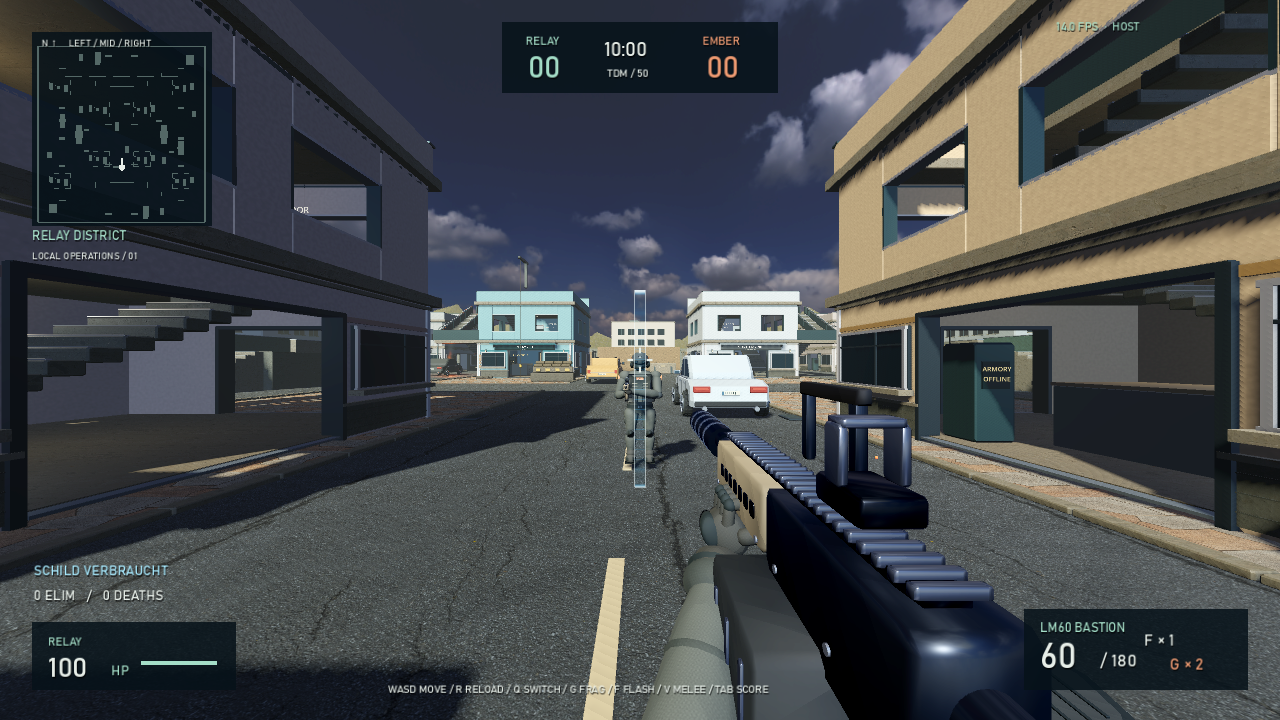
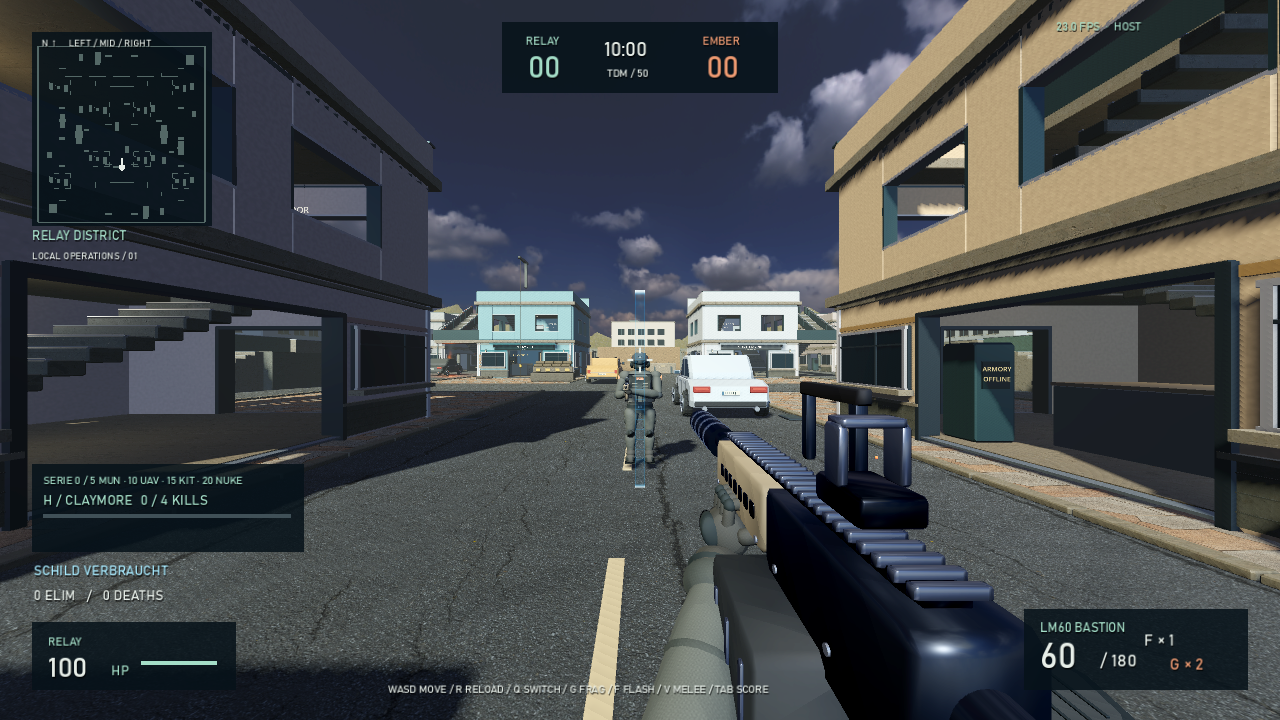
update

Changed region(s): [[0.0, 0.6417, 0.25, 0.7639], [0.8125, 0.0306, 0.9062, 0.0611]]

diff --git a/README.md b/README.md
@@ -67,6 +67,14 @@ Details zu Installation, Offline-Start und Veröffentlichung neuer Spielversione
 | F11 | Vollbild umschalten |
 | Esc | Menü / Maus freigeben |
 
+## Längere Gefechte und Laufmündung
+
+Die Waffen verursachen weniger Schaden bei unveränderter Kadenz. Bei 100 HP und nahen Oberkörpertreffern braucht die AR-4 jetzt 5 statt 4 Treffer (0,42 statt 0,315 s vom ersten bis zum letzten Treffer); V9 7 statt 5, LM60 4 statt 3, D58 3 statt 2. Schrotflinten benötigen bei reinen Körpertreffern mindestens zwei (SG-8) bzw. drei Schüsse (AS12). Kopf-/Beintreffer, Streuung und Entfernung verändern diese Werte. Die M77 behält ihren One-Shot-Schaden.
+
+Waffenmodelle besitzen einen Mündungspunkt direkt an der Lauföffnung. Trefferursprung, sichtbare Schusslinie und Mündungsfeuer verwenden diese Modelldaten statt separat geschätzter Laufpositionen. Die sichtbare Schusslinie folgt dem animierten Waffenmodell; die serverautoritäre Flugbahn verwendet dieselbe Laufgeometrie in der Gameplay-Haltung und prüft weiterhin nahe Deckung.
+
+Details und Prüfungen: [TTK und Laufmündung](docs/TTK-MUZZLE.md).
+
 ## Killstreaks und H-Fähigkeit
 
 Kills ohne eigenen Tod schalten Belohnungen automatisch frei:
@@ -88,7 +96,7 @@ Belohnungen, Minen und H-Aktionen werden serverautoritär verwaltet und im LAN s
 
 **LOADOUT → WAFFEN-SKINS / FARBEN & TEXT** öffnet den neuen Editor. Alle zehn Waffen haben acht getrennt färbbare Bereiche: Gehäuse, Handschutz, Schaft, Lauf, Griff, Visierung, Magazin und Verschluss. Eigener Text (bis 32 Zeichen) und Textfarbe sind ebenfalls einstellbar. Die Vorschau lässt sich mit gedrückter linker Maustaste drehen. **DESIGN SPEICHERN** aktiviert das Design pro Waffe und speichert es lokal. Beim LAN-Beitritt werden die Designs der ausgerüsteten Primärwaffe und Pistole übertragen. Werkdesign wiederherstellen setzt die Farben und Beschriftung zurück. Ungespeicherte Änderungen werden beim Verlassen verworfen.
 
-Neu im Arsenal: **D58 Sentinel** (halbautomatisches Präzisionsgewehr, 58 Basisschaden), **LM60 Bastion** (LMG, 34), **AK42 Hammer** (schweres Gewehr, 42), **K16 Viper** (schnelle SMG, 16) und **AS12 Cyclone** (automatische Shotgun, 12 je Schrotkorn). Eigene Anbauteile, Magazine, Handlingprofile und Schussklänge unterscheiden die Varianten. Die **M77** verursacht 130 Basisschaden und kann ungeschützte Gegner mit einem Treffer ausschalten. Trefferzone, Entfernung und Schutz beeinflussen den tatsächlichen Schaden.
+Neu im Arsenal: **D58 Sentinel** (halbautomatisches Präzisionsgewehr, 45 Basisschaden), **LM60 Bastion** (LMG, 26), **AK42 Hammer** (schweres Gewehr, 32), **K16 Viper** (schnelle SMG, 11) und **AS12 Cyclone** (automatische Shotgun, 7,5 je Schrotkorn). Eigene Anbauteile, Magazine, Handlingprofile und Schussklänge unterscheiden die Varianten. Die **M77** verursacht 130 Basisschaden und kann ungeschützte Gegner mit einem Treffer ausschalten. Trefferzone, Entfernung und Schutz beeinflussen den tatsächlichen Schaden.
 
 **B** entfaltet ein weiß/neonblaues Frontschild für **45 Sekunden**, einmal pro Leben. Es blockiert Schaden aus der Blickrichtung; Seiten und Rücken bleiben verwundbar. **R** bleibt Nachladen. Server und Clients synchronisieren Dauer und Ladung. Schussbahnen beginnen an der Waffenmündung; die Zielrichtung wird mit dem Fadenkreuz abgeglichen und nahe Wände werden berücksichtigt.
 

diff --git a/docs/TTK-MUZZLE.md b/docs/TTK-MUZZLE.md
@@ -1,0 +1,37 @@
+# TTK und Laufmündung
+
+## Ziel
+Längere Feuergefechte bei unverändertem Movement, Rückstoß, Feuertempo und 100 HP. Die zuvor gewünschte One-Shot-M77 bleibt erhalten. Mündungen werden aus dem Modellbau abgeleitet statt in Handlingprofilen geschätzt.
+
+## Dateien / vollständiger Code
+- `scripts/weapons.gd` / Arsenal: neue Schadenswerte.
+- `scripts/weapon_models.gd` / WeaponModels: Muzzle-Marker an der Lauföffnung, gespeicherte lokale Koordinaten.
+- `scripts/weapon_variants.gd`: eigene Laufenden für D58 und LM60.
+- `scripts/shot_origin.gd` / ShotOrigin: serverautoritärer Schussursprung und animierter visueller Ursprung.
+- `scripts/weapon_view.gd`: ausgerichtetes Mündungsfeuer.
+- `scripts/weapon_handling.gd`: entfernt die veralteten, unabhängig gepflegten Mündungsschätzungen.
+
+## Balancing
+Benötigte Schüsse gegen 100 HP, naher Oberkörper, alle Schrotkörner treffen, ohne Schutz:
+
+| Waffe | Schaden | Schüsse |
+|---|---:|---:|
+| AR-4 | 20 | 5 |
+| V9 | 15 | 7 |
+| SG-8 | 11 × 8 | 2 |
+| M77 | 130 | 1 |
+| P12 | 21 | 5 |
+| D58 | 45 | 3 |
+| LM60 | 26 | 4 |
+| AK42 | 32 | 4 |
+| K16 | 11 | 10 |
+| AS12 | 7,5 × 6 | 3 |
+
+Headshots, Gliedmaßentreffer, Distanz und Streuung verändern diese Werte. Granaten, Claymore, Nahkampf und Lebenspunkte wurden nicht verändert.
+
+## Einbau und Tests
+Aktuelles Projekt mit Godot 4.5 importieren und starten; beide LAN-PCs müssen denselben Stand verwenden. Keine neuen Assets nötig.
+
+`tests/ttk_muzzle.gd` prüft 60 Fälle: Trefferanzahl, Laufenden aller zehn Modelle, animierte visuelle Mündung, Ausrichtung des Feuerblitzes und serverautoritären Ursprung für Hipfire/ADS. In `tests/Run-Tests.ps1` integriert. Der bestehende Headshot-Test vergleicht jetzt Kopf- und Körperschaden statt eines alten absoluten Grenzwerts.
+
+Manuell: Schüsse bei Hipfire/ADS, Bewegung und Ducken ansehen; besonders AR-4 und Pistole. An Deckung herantreten und prüfen, dass der Lauf nicht durch Wände feuert. Typische Verwechslung: Eine höhere TTK bedeutet mehr benötigte Treffer, keine höhere Feuerrate. Serverseitige Trefferberechnung nutzt eine stabile Waffenhaltung; kosmetisches Wackeln bleibt auf die Darstellung beschränkt.
